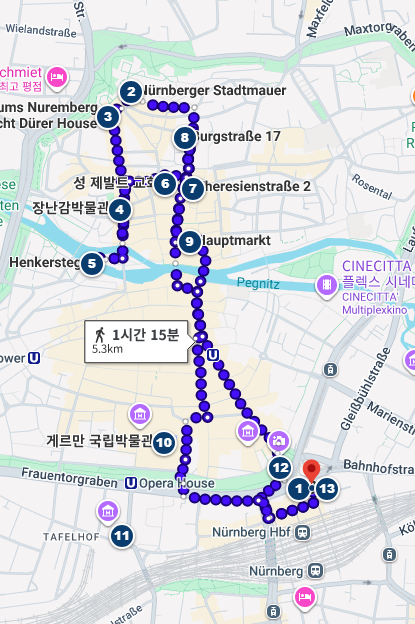
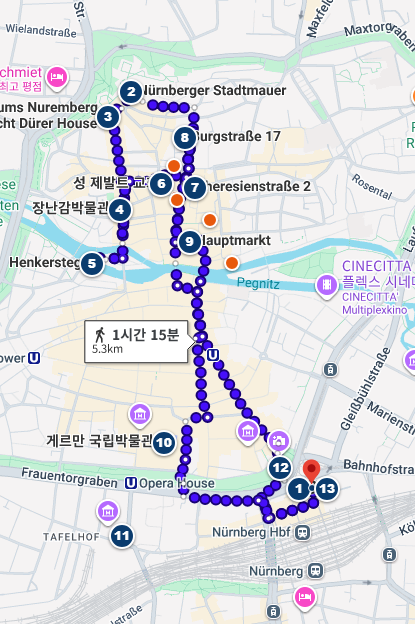
Add restaurant map markers and nearest-landmark distance for 3 cities
For Würzburg, Rothenburg, and Nürnberg: overlay each restaurant's
real (geocoded) location on the walking-route screenshot as a small
unnumbered dot, separate from the numbered route stops - not added
to the walking order or the right-side route-steps list, per request.

Each restaurant card also gets a closing line naming the nearest
landmark from the walking route and the real walking distance/time
to it, verified via live Google Maps routing rather than estimated.

Nürnberg's L'Osteria Tullnaupark and PHANtastic were excluded - both
geocode 2-3.5km from the old town route despite their existing
"도보권" label, so they're genuinely not walkable from the route and
don't belong on this screenshot (flagged as a separate pre-existing
inaccuracy, not fixed here).

Changed region(s): [[0.347, 0.2436, 0.5494, 0.3654], [0.5205, 0.3958, 0.5783, 0.4567]]

diff --git a/germany-roadtrip-planner.html b/germany-roadtrip-planner.html
@@ -578,6 +578,7 @@
   .food-card .food-dish{ margin:0; font-size:0.8rem; line-height:1.5; color:var(--route); font-weight:700; }
   .food-card .food-park{ margin:0; font-size:0.76rem; line-height:1.5; color:var(--ink-soft); }
   .food-card .food-park a{ color:var(--route); font-weight:700; }
+  .food-card .food-near{ margin:0; font-size:0.76rem; line-height:1.5; color:var(--ink-soft); }
   .food-card.area-start{ border-left:3px solid var(--route); }
   @media (max-width:900px){ .food-card.area-start{ border-left:1px solid var(--line); border-top:3px solid var(--route); } }
   .plan-step{ display:flex; gap:0.9rem; padding:0.55rem 0; border-bottom:1px dashed var(--line); }
@@ -1032,36 +1033,42 @@ document.addEventListener('DOMContentLoaded', function(){
           <p class="food-loc">구시가·마르크트 인근 · 1319년 설립 자선 와이너리 부속 식당 · 매일 11:00–24:00, 연중무휴</p>
           <p class="food-dish">🍽 꼭 시켜야 할 메뉴: 크로스피 슈바이네셰우펠레(€27.50)</p>
           <p class="food-park">🅿 도보권(레지덴츠 정문) · <a href="https://www.google.com/maps/search/?api=1&query=Buergerspital+Weinstuben+Wuerzburg" target="_blank" rel="noopener">지도</a></p>
+          <p class="food-near">📍 율리우스슈피탈에서 약 700m·도보 9분</p>
         </div>
         <div class="food-card">
           <h5>Backöfele</h5>
           <p class="food-loc">구시가 골목(Ursulinergasse) · 1571년 건물, 47년 전통 향토 식당 · 월–목 17:00–23:00, 금 17:00–24:00, 토 12:00–24:00, 일·공휴일 12:00–23:00</p>
           <p class="food-dish">🍽 꼭 시켜야 할 메뉴: 자우어브라텐 "Backöfele"+감자경단(€31.00)</p>
           <p class="food-park">🅿 도보권(레지덴츠 정문) · <a href="https://www.google.com/maps/search/?api=1&query=Backoefele+Wuerzburg" target="_blank" rel="noopener">지도</a></p>
+          <p class="food-near">📍 알테 마인교에서 약 350m·도보 5분</p>
         </div>
         <div class="food-card">
           <h5>Locanda Würzburg</h5>
           <p class="food-loc">마인강변(Kranenkai) · 이탈리안, 대형 피자로 유명 · 일–목 11:30–23:00, 금·토 11:30–24:00</p>
           <p class="food-dish">🍽 검색 상위 노출</p>
           <p class="food-park">🅿 도보권(레지덴츠 정문) · <a href="https://www.google.com/maps/search/?api=1&query=Locanda+Wuerzburg" target="_blank" rel="noopener">지도</a></p>
+          <p class="food-near">📍 알테 마인교에서 약 500m·도보 7분</p>
         </div>
         <div class="food-card">
           <h5>Trattoria Lugana</h5>
           <p class="food-loc">Juliuspromenade · 이탈리안 트라토리아 · 화·목·금 17:30–22:00, 수 17:30–24:00, 토 12:00–14:30·17:30–22:00, 일 12:00–14:30·17:30–24:00 · 월요일 휴무</p>
           <p class="food-dish">🍽 검색 상위 노출</p>
           <p class="food-park">🅿 도보권(레지덴츠 정문) · <a href="https://www.google.com/maps/search/?api=1&query=Trattoria+Lugana+Wuerzburg" target="_blank" rel="noopener">지도</a></p>
+          <p class="food-near">📍 알테 마인교에서 약 550m·도보 8분</p>
         </div>
         <div class="food-card">
           <h5>Chay Viet Tadilen</h5>
           <p class="food-loc">Juliuspromenade · 동남아식(베트남 비건·베지테리언) · 매일 11:00–22:00</p>
           <p class="food-dish">🍽 검색 상위 노출</p>
           <p class="food-park">🅿 도보권(레지덴츠 정문) · <a href="https://www.google.com/maps/search/?api=1&query=Chay+Viet+Tadilen+Wuerzburg" target="_blank" rel="noopener">지도</a></p>
+          <p class="food-near">📍 율리우스슈피탈에서 약 550m·도보 7분</p>
         </div>
         <div class="food-card">
           <h5>Wirtshaus am Dom</h5>
           <p class="food-loc">Paradeplatz 4, 레지덴츠광장 도보 2분 · 프랑켄 전통 비어하우스 · 월–목 12:00–22:00, 금·토 12:00–23:00, 일 11:00–22:00</p>
           <p class="food-dish">🍽 츠비벨로스트브라텐, 잔더 필레(창꼬치농어)</p>
           <p class="food-park">🅿 도보권(레지덴츠 정문) · <a href="https://www.google.com/maps/search/?api=1&query=Wirtshaus+am+Dom+Wuerzburg" target="_blank" rel="noopener">지도</a></p>
+          <p class="food-near">📍 레지덴츠 궁전에서 약 150m·도보 2분</p>
         </div>
       </div>
       </div>
@@ -1178,18 +1185,21 @@ document.addEventListener('DOMContentLoaded', function(){
           <p class="food-loc">구시가 중심 · 가성비 좋은 프랑켄 가정식, 예약 권장 · 수–금 17:30~, 토·일 11:30–13:30+17:30~(주방 20:00 마감) · 월·화 휴무</p>
           <p class="food-dish">🍽 꼭 시켜야 할 메뉴: 프렌키셰 자우어브라텐, 후식 슈네발</p>
           <p class="food-park">🅿 도보권(P4 Galgentor) · <a href="https://www.google.com/maps/search/?api=1&query=Alter+Keller+Rothenburg+ob+der+Tauber" target="_blank" rel="noopener">지도</a></p>
+          <p class="food-near">📍 수공업자의 집에서 약 110m·도보 2분</p>
         </div>
         <div class="food-card">
           <h5>Baumeisterhaus</h5>
           <p class="food-loc">오베레 슈미트가세 · 구시가 중심 랜드마크 건물 내 식당 · 매일 10:00–21:00</p>
           <p class="food-dish">🍽 꼭 시켜야 할 메뉴: 룸프슈테이크+허브버터(€19.50)</p>
           <p class="food-park">🅿 도보권(P4 Galgentor) · <a href="https://www.google.com/maps/search/?api=1&query=Baumeisterhaus+Rothenburg+ob+der+Tauber" target="_blank" rel="noopener">지도</a></p>
+          <p class="food-near">📍 시청 탑에서 약 110m·도보 2분</p>
         </div>
         <div class="food-card">
           <h5>Gasthof Goldener Greifen</h5>
           <p class="food-loc">구시가 중심 · 1348년부터 160년째 한 가문이 운영하는 여관 · 월, 목–일 12:00–20:00(주방 기준), 화·수 휴무</p>
           <p class="food-dish">🍽 꼭 시켜야 할 메뉴: 프랑켄 가정식 계절 메뉴</p>
           <p class="food-park">🅿 도보권(P4 Galgentor) · <a href="https://www.google.com/maps/search/?api=1&query=Gasthof+Goldener+Greifen+Rothenburg+ob+der+Tauber" target="_blank" rel="noopener">지도</a></p>
+          <p class="food-near">📍 시청 탑에서 약 120m·도보 2분</p>
         </div>
       </div>
       </div>
@@ -1366,12 +1376,14 @@ document.addEventListener('DOMContentLoaded', function(){
           <p class="food-loc">구시가, 성 자발트 교회 옆 · 1312년부터 이어진 정통 브랏하우스, 자체 정육점 운영 · 월–토 11:00–22:00, 일 11:00–20:00(공식 사이트 확인, 일요일도 영업)</p>
           <p class="food-dish">🍽 꼭 시켜야 할 메뉴: 오펜프리셰 셰우펠레(€21.00)</p>
           <p class="food-park">🅿 도보권(Parkhaus Am Hauptbahnhof) · <a href="https://www.google.com/maps/search/?api=1&query=Bratwursthaeusle+Nuernberg" target="_blank" rel="noopener">지도</a></p>
+          <p class="food-near">📍 성 제발두스 교회에서 약 25m·도보 1분</p>
         </div>
         <div class="food-card">
           <h5>Cucina Italiana</h5>
           <p class="food-loc">하우프트마르크트(Obstmarkt 모퉁이) · 가족 운영 이탈리안 · 월요일 휴무, 화·수 17:00–22:30, 목–토 12:00–15:00+17:00–22:30, 일 17:00–22:30(점심 없음) · ⚠ 방문일(9/20 일)엔 점심 불가, 저녁만 가능</p>
           <p class="food-dish">🍽 피자·파스타 평균 단가 약 €17대</p>
           <p class="food-park">🅿 도보권(Parkhaus Am Hauptbahnhof) · <a href="https://www.google.com/maps/search/?api=1&query=Cucina+Italiana+Nuernberg" target="_blank" rel="noopener">지도</a></p>
+          <p class="food-near">📍 중앙시장에서 약 120m·도보 2분</p>
         </div>
         <div class="food-card">
           <h5>L'Osteria Nürnberg Tullnaupark</h5>
@@ -1390,12 +1402,14 @@ document.addEventListener('DOMContentLoaded', function(){
           <p class="food-loc">Glöckleinsgasse 2, 성 제발두스 교회 바로 옆(도보 코스상) · 1498년부터 이어진 독일에서 가장 오래된 와인선술집 · 화–일 11:00–23:00(주방 ~22:00), 월요일 휴무 · 방문일(9/20 일) 영업</p>
           <p class="food-dish">🍽 꼭 시켜야 할 메뉴: 오펜프리셰 슈바인스셰우펠레(€19.50), 뉘른베르거 브랏부어스트 6개(€10.50)</p>
           <p class="food-park">🅿 도보권(Parkhaus Hauptmarkt/Rathausplatz) · <a href="https://www.google.com/maps/search/?api=1&query=Goldenes+Posthorn+Nuernberg" target="_blank" rel="noopener">지도</a></p>
+          <p class="food-near">📍 성 제발두스 교회에서 약 82m·도보 1분</p>
         </div>
         <div class="food-card">
           <h5>Heilig-Geist-Spital</h5>
           <p class="food-loc">Spitalgasse 16, 페그니츠강 위(헹커슈텍 인근, 도보 코스상) · 14세기 병원 건물을 개조한 전통 프랑켄 레스토랑 · 매일 11:30–23:00(주방 ~22:00)</p>
           <p class="food-dish">🍽 프랑켄 대표 메뉴: 슈바인스셰우펠레·학세·뉘른베르거 브랏부어스트(현재 정확한 가격은 현지 확인 권장)</p>
           <p class="food-park">🅿 도보권(Parkhaus Am Hauptbahnhof) · <a href="https://www.google.com/maps/search/?api=1&query=Heilig-Geist-Spital+Nuernberg" target="_blank" rel="noopener">지도</a></p>
+          <p class="food-near">📍 중앙시장에서 약 180m·도보 2분</p>
         </div>
       </div>
       </div>

diff --git a/index.html b/index.html
@@ -578,6 +578,7 @@
   .food-card .food-dish{ margin:0; font-size:0.8rem; line-height:1.5; color:var(--route); font-weight:700; }
   .food-card .food-park{ margin:0; font-size:0.76rem; line-height:1.5; color:var(--ink-soft); }
   .food-card .food-park a{ color:var(--route); font-weight:700; }
+  .food-card .food-near{ margin:0; font-size:0.76rem; line-height:1.5; color:var(--ink-soft); }
   .food-card.area-start{ border-left:3px solid var(--route); }
   @media (max-width:900px){ .food-card.area-start{ border-left:1px solid var(--line); border-top:3px solid var(--route); } }
   .plan-step{ display:flex; gap:0.9rem; padding:0.55rem 0; border-bottom:1px dashed var(--line); }
@@ -1032,36 +1033,42 @@ document.addEventListener('DOMContentLoaded', function(){
           <p class="food-loc">구시가·마르크트 인근 · 1319년 설립 자선 와이너리 부속 식당 · 매일 11:00–24:00, 연중무휴</p>
           <p class="food-dish">🍽 꼭 시켜야 할 메뉴: 크로스피 슈바이네셰우펠레(€27.50)</p>
           <p class="food-park">🅿 도보권(레지덴츠 정문) · <a href="https://www.google.com/maps/search/?api=1&query=Buergerspital+Weinstuben+Wuerzburg" target="_blank" rel="noopener">지도</a></p>
+          <p class="food-near">📍 율리우스슈피탈에서 약 700m·도보 9분</p>
         </div>
         <div class="food-card">
           <h5>Backöfele</h5>
           <p class="food-loc">구시가 골목(Ursulinergasse) · 1571년 건물, 47년 전통 향토 식당 · 월–목 17:00–23:00, 금 17:00–24:00, 토 12:00–24:00, 일·공휴일 12:00–23:00</p>
           <p class="food-dish">🍽 꼭 시켜야 할 메뉴: 자우어브라텐 "Backöfele"+감자경단(€31.00)</p>
           <p class="food-park">🅿 도보권(레지덴츠 정문) · <a href="https://www.google.com/maps/search/?api=1&query=Backoefele+Wuerzburg" target="_blank" rel="noopener">지도</a></p>
+          <p class="food-near">📍 알테 마인교에서 약 350m·도보 5분</p>
         </div>
         <div class="food-card">
           <h5>Locanda Würzburg</h5>
           <p class="food-loc">마인강변(Kranenkai) · 이탈리안, 대형 피자로 유명 · 일–목 11:30–23:00, 금·토 11:30–24:00</p>
           <p class="food-dish">🍽 검색 상위 노출</p>
           <p class="food-park">🅿 도보권(레지덴츠 정문) · <a href="https://www.google.com/maps/search/?api=1&query=Locanda+Wuerzburg" target="_blank" rel="noopener">지도</a></p>
+          <p class="food-near">📍 알테 마인교에서 약 500m·도보 7분</p>
         </div>
         <div class="food-card">
           <h5>Trattoria Lugana</h5>
           <p class="food-loc">Juliuspromenade · 이탈리안 트라토리아 · 화·목·금 17:30–22:00, 수 17:30–24:00, 토 12:00–14:30·17:30–22:00, 일 12:00–14:30·17:30–24:00 · 월요일 휴무</p>
           <p class="food-dish">🍽 검색 상위 노출</p>
           <p class="food-park">🅿 도보권(레지덴츠 정문) · <a href="https://www.google.com/maps/search/?api=1&query=Trattoria+Lugana+Wuerzburg" target="_blank" rel="noopener">지도</a></p>
+          <p class="food-near">📍 알테 마인교에서 약 550m·도보 8분</p>
         </div>
         <div class="food-card">
           <h5>Chay Viet Tadilen</h5>
           <p class="food-loc">Juliuspromenade · 동남아식(베트남 비건·베지테리언) · 매일 11:00–22:00</p>
           <p class="food-dish">🍽 검색 상위 노출</p>
           <p class="food-park">🅿 도보권(레지덴츠 정문) · <a href="https://www.google.com/maps/search/?api=1&query=Chay+Viet+Tadilen+Wuerzburg" target="_blank" rel="noopener">지도</a></p>
+          <p class="food-near">📍 율리우스슈피탈에서 약 550m·도보 7분</p>
         </div>
         <div class="food-card">
           <h5>Wirtshaus am Dom</h5>
           <p class="food-loc">Paradeplatz 4, 레지덴츠광장 도보 2분 · 프랑켄 전통 비어하우스 · 월–목 12:00–22:00, 금·토 12:00–23:00, 일 11:00–22:00</p>
           <p class="food-dish">🍽 츠비벨로스트브라텐, 잔더 필레(창꼬치농어)</p>
           <p class="food-park">🅿 도보권(레지덴츠 정문) · <a href="https://www.google.com/maps/search/?api=1&query=Wirtshaus+am+Dom+Wuerzburg" target="_blank" rel="noopener">지도</a></p>
+          <p class="food-near">📍 레지덴츠 궁전에서 약 150m·도보 2분</p>
         </div>
       </div>
       </div>
@@ -1178,18 +1185,21 @@ document.addEventListener('DOMContentLoaded', function(){
           <p class="food-loc">구시가 중심 · 가성비 좋은 프랑켄 가정식, 예약 권장 · 수–금 17:30~, 토·일 11:30–13:30+17:30~(주방 20:00 마감) · 월·화 휴무</p>
           <p class="food-dish">🍽 꼭 시켜야 할 메뉴: 프렌키셰 자우어브라텐, 후식 슈네발</p>
           <p class="food-park">🅿 도보권(P4 Galgentor) · <a href="https://www.google.com/maps/search/?api=1&query=Alter+Keller+Rothenburg+ob+der+Tauber" target="_blank" rel="noopener">지도</a></p>
+          <p class="food-near">📍 수공업자의 집에서 약 110m·도보 2분</p>
         </div>
         <div class="food-card">
           <h5>Baumeisterhaus</h5>
           <p class="food-loc">오베레 슈미트가세 · 구시가 중심 랜드마크 건물 내 식당 · 매일 10:00–21:00</p>
           <p class="food-dish">🍽 꼭 시켜야 할 메뉴: 룸프슈테이크+허브버터(€19.50)</p>
           <p class="food-park">🅿 도보권(P4 Galgentor) · <a href="https://www.google.com/maps/search/?api=1&query=Baumeisterhaus+Rothenburg+ob+der+Tauber" target="_blank" rel="noopener">지도</a></p>
+          <p class="food-near">📍 시청 탑에서 약 110m·도보 2분</p>
         </div>
         <div class="food-card">
           <h5>Gasthof Goldener Greifen</h5>
           <p class="food-loc">구시가 중심 · 1348년부터 160년째 한 가문이 운영하는 여관 · 월, 목–일 12:00–20:00(주방 기준), 화·수 휴무</p>
           <p class="food-dish">🍽 꼭 시켜야 할 메뉴: 프랑켄 가정식 계절 메뉴</p>
           <p class="food-park">🅿 도보권(P4 Galgentor) · <a href="https://www.google.com/maps/search/?api=1&query=Gasthof+Goldener+Greifen+Rothenburg+ob+der+Tauber" target="_blank" rel="noopener">지도</a></p>
+          <p class="food-near">📍 시청 탑에서 약 120m·도보 2분</p>
         </div>
       </div>
       </div>
@@ -1366,12 +1376,14 @@ document.addEventListener('DOMContentLoaded', function(){
           <p class="food-loc">구시가, 성 자발트 교회 옆 · 1312년부터 이어진 정통 브랏하우스, 자체 정육점 운영 · 월–토 11:00–22:00, 일 11:00–20:00(공식 사이트 확인, 일요일도 영업)</p>
           <p class="food-dish">🍽 꼭 시켜야 할 메뉴: 오펜프리셰 셰우펠레(€21.00)</p>
           <p class="food-park">🅿 도보권(Parkhaus Am Hauptbahnhof) · <a href="https://www.google.com/maps/search/?api=1&query=Bratwursthaeusle+Nuernberg" target="_blank" rel="noopener">지도</a></p>
+          <p class="food-near">📍 성 제발두스 교회에서 약 25m·도보 1분</p>
         </div>
         <div class="food-card">
           <h5>Cucina Italiana</h5>
           <p class="food-loc">하우프트마르크트(Obstmarkt 모퉁이) · 가족 운영 이탈리안 · 월요일 휴무, 화·수 17:00–22:30, 목–토 12:00–15:00+17:00–22:30, 일 17:00–22:30(점심 없음) · ⚠ 방문일(9/20 일)엔 점심 불가, 저녁만 가능</p>
           <p class="food-dish">🍽 피자·파스타 평균 단가 약 €17대</p>
           <p class="food-park">🅿 도보권(Parkhaus Am Hauptbahnhof) · <a href="https://www.google.com/maps/search/?api=1&query=Cucina+Italiana+Nuernberg" target="_blank" rel="noopener">지도</a></p>
+          <p class="food-near">📍 중앙시장에서 약 120m·도보 2분</p>
         </div>
         <div class="food-card">
           <h5>L'Osteria Nürnberg Tullnaupark</h5>
@@ -1390,12 +1402,14 @@ document.addEventListener('DOMContentLoaded', function(){
           <p class="food-loc">Glöckleinsgasse 2, 성 제발두스 교회 바로 옆(도보 코스상) · 1498년부터 이어진 독일에서 가장 오래된 와인선술집 · 화–일 11:00–23:00(주방 ~22:00), 월요일 휴무 · 방문일(9/20 일) 영업</p>
           <p class="food-dish">🍽 꼭 시켜야 할 메뉴: 오펜프리셰 슈바인스셰우펠레(€19.50), 뉘른베르거 브랏부어스트 6개(€10.50)</p>
           <p class="food-park">🅿 도보권(Parkhaus Hauptmarkt/Rathausplatz) · <a href="https://www.google.com/maps/search/?api=1&query=Goldenes+Posthorn+Nuernberg" target="_blank" rel="noopener">지도</a></p>
+          <p class="food-near">📍 성 제발두스 교회에서 약 82m·도보 1분</p>
         </div>
         <div class="food-card">
           <h5>Heilig-Geist-Spital</h5>
           <p class="food-loc">Spitalgasse 16, 페그니츠강 위(헹커슈텍 인근, 도보 코스상) · 14세기 병원 건물을 개조한 전통 프랑켄 레스토랑 · 매일 11:30–23:00(주방 ~22:00)</p>
           <p class="food-dish">🍽 프랑켄 대표 메뉴: 슈바인스셰우펠레·학세·뉘른베르거 브랏부어스트(현재 정확한 가격은 현지 확인 권장)</p>
           <p class="food-park">🅿 도보권(Parkhaus Am Hauptbahnhof) · <a href="https://www.google.com/maps/search/?api=1&query=Heilig-Geist-Spital+Nuernberg" target="_blank" rel="noopener">지도</a></p>
+          <p class="food-near">📍 중앙시장에서 약 180m·도보 2분</p>
         </div>
       </div>
       </div>
